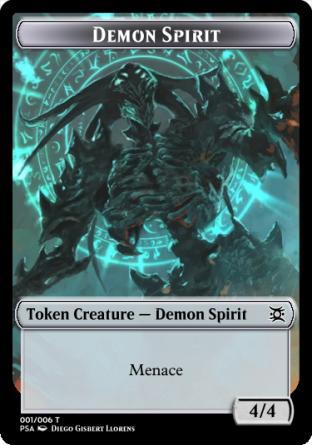
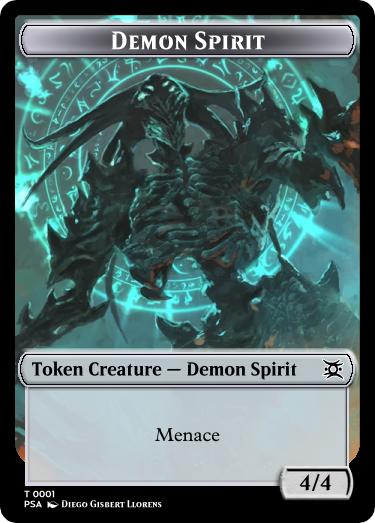
20 new PSA cards (#40)
* Update PSA card pics

* Hinode Ranger

* Hinasa Historian

* Hinasa Lorekeeper

* Inoshi the Wild Boar

* Imperial Siege

* Imperial Port

* Awoken Nightmares

* Update Aokara Duelists

* Update Aokara Elite

* End of the Empire

* Update PSA token pics

* Shadowstrider

* Voiceless Assailant

* Master of Balance

* Light Within Shadow

* Mana Ascetic

* Legacy's End

* Tower of Long Shadows

* Seishin Rageshaper

* Masahita's Servant

* Firebloom pic

* Sovereign of Old Jidai

* Kiboshi's Guardian

* Update README

* Mua, Seishin Ascendant

diff --git a/MSEM/README.md b/MSEM/README.md
@@ -33,7 +33,7 @@ Video Horror System (VHS)             -  95% (82/86)
     * Wiretapper
     * Mr. Jackston, the Proprietor
 Kaleidoscope (KLC)                    -  100% (108/108)
-Path of Shadows (PSA)                 -  35% (76/214)
+Path of Shadows (PSA)                 -  44% (96/214)
 A Tourney at Whiterun (TWR)           -  11% (32/269)
 Tides of War (TOW)                    -  28% (77/271)
 Pyramids of Atuum (POA)               -  50% (64/128)
